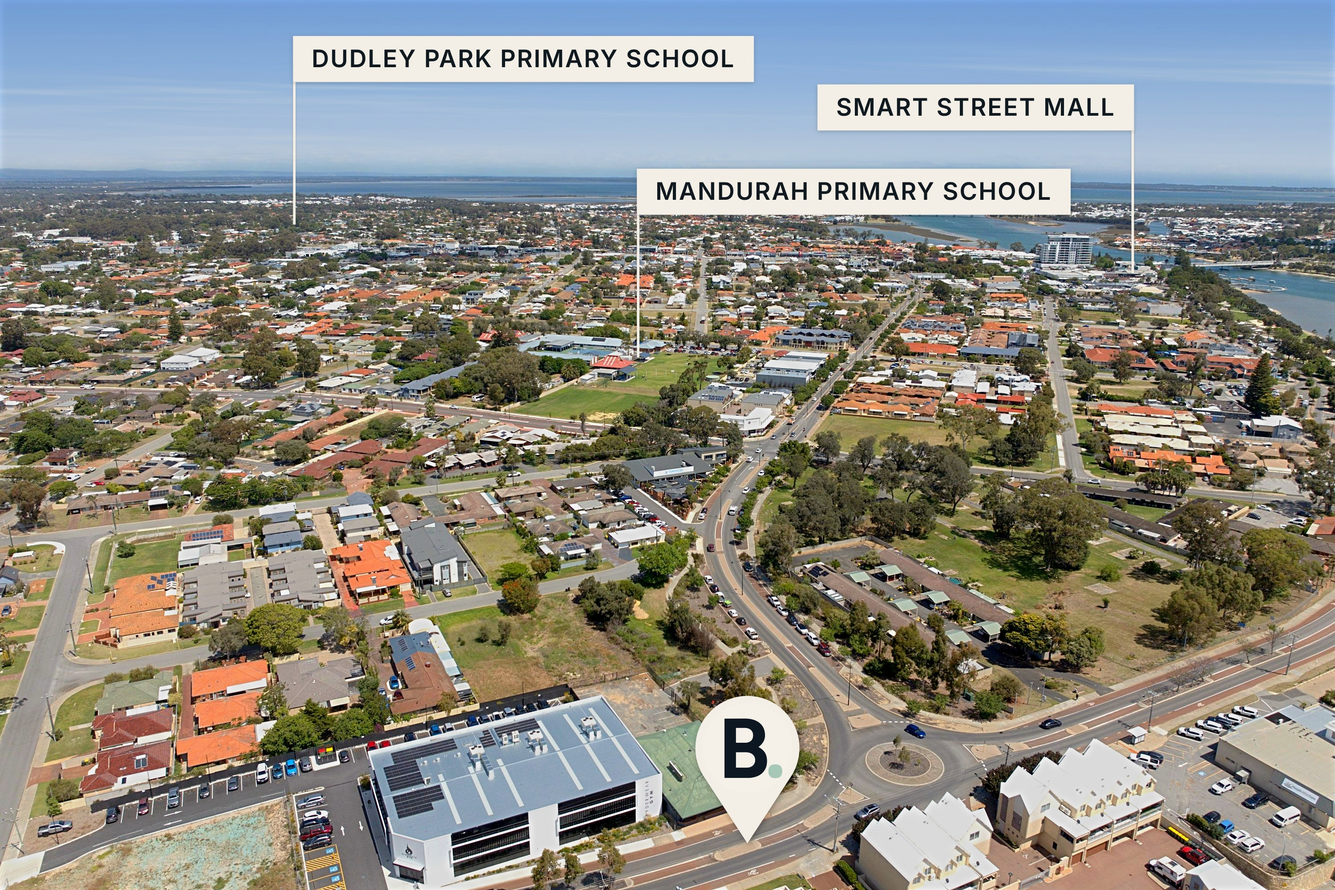
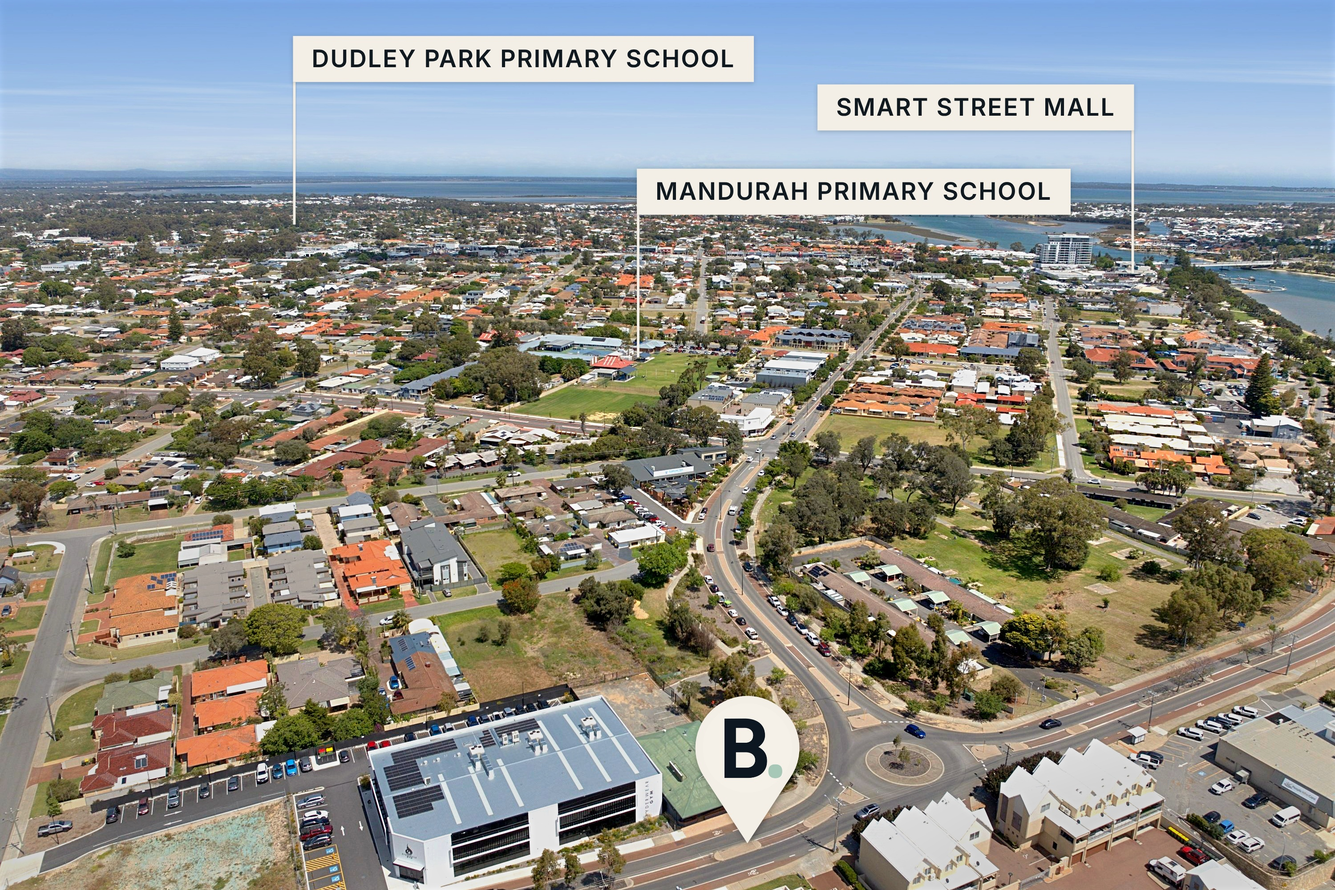
Editor: auto land/sea/sky masks, Even out land on by default; Mandurah re-exported
Claude-Session: https://claude.ai/code/session_01A5qGg2LnJXxgSHoMQFvEEG

diff --git a/pins/index.html b/pins/index.html
@@ -1199,7 +1199,7 @@ function textMetrics(c, t, p){
   const bw = w+padX*2, bh = lines.length*lh + padY*2;
   return { size, weight, lines, lh, bw, bh, x:t.x-bw/2, y:t.y-bh/2, padX, padY };
 }
-const ADJ0 = { exp:0, con:0, hl:0, sh:0, warm:0, tint:0, sat:0, bright:0 };
+const ADJ0 = { exp:0, con:0, hl:0, sh:0, warm:0, tint:0, sat:0, bright:0, even:0, land:0, sea:0, sky:0 };
 function adjActive(a){ return a && Object.keys(ADJ0).some(k=>a[k]); }
 // Photo-only adjustments: applied to the picture underneath; pins, boundaries and text are drawn on top afterwards, untouched.
 function adjustedCanvas(src, a){
@@ -1211,6 +1211,33 @@ function adjustedCanvas(src, a){
     const wh=t*t*(3-2*t); t = t + sh*(1-wh)*t*(1-t)*1.6 + hl*wh*t*(1-t)*1.6; T[v]=cl(t*255); }
   const wr=1+a.warm/400, wb=1-a.warm/400, tg=1-a.tint/400;
   for (let i=0;i<d.length;i+=4){ let r=T[d[i]]*wr, g=T[d[i+1]]*tg, b=T[d[i+2]]*wb; const Y=.299*r+.587*g+.114*b; d[i]=cl(Y+(r-Y)*sat); d[i+1]=cl(Y+(g-Y)*sat); d[i+2]=cl(Y+(b-Y)*sat); }
+  if (a.even || a.land || a.sea || a.sky){   /* 5 Nov (Jason): automatic masks for LAND / SEA / SKY — land evened out (no bright or dark patches), each zone brightened or darkened on its own */
+    x.putImageData(id,0,0);
+    const mw=Math.max(24,Math.round(w/12)), mh=Math.max(16,Math.round(h/12)), N=mw*mh;
+    const z1=document.createElement("canvas"); z1.width=mw; z1.height=mh; const z1x=z1.getContext("2d"); z1x.drawImage(c,0,0,mw,mh);
+    const q=z1x.getImageData(0,0,mw,mh).data, LY=new Float32Array(N), rowY=new Float32Array(mh);
+    for (let i=0;i<N;i++){ const j=i*4; LY[i]=Math.log(1+(.299*q[j]+.587*q[j+1]+.114*q[j+2])); }
+    for (let yy=0;yy<mh;yy++){ let s=0; for (let xx=0;xx<mw;xx++) s+=LY[yy*mw+xx]; rowY[yy]=s/mw; }
+    let hz=Math.round(mh*.3), best=1e9; for (let yy=Math.round(mh*.04); yy<Math.round(mh*.6); yy++){ const a0=rowY[Math.max(0,yy-2)]+rowY[Math.max(0,yy-1)], b0=rowY[Math.min(mh-1,yy+1)]+rowY[Math.min(mh-1,yy+2)], dd=b0-a0; if (dd<best){ best=dd; hz=yy; } }
+    if (best > -0.15) hz = 0;   // no clear horizon (top-down / looking down): everything is land
+    const Ls=new Float32Array(N), Ws=new Float32Array(N), Ss=new Float32Array(N);
+    for (let yy=0;yy<mh;yy++) for (let xx=0;xx<mw;xx++){ const i=yy*mw+xx, j=i*4, r=q[j], g=q[j+1], b=q[j+2];
+      if (yy<hz){ Ss[i]=1; continue; } if (hz>0 && yy < hz + mh*.45 && ((b>r+22 && g>r+8 && b>90) || (b>r+8 && g>r+4 && b>150 && g>140))) Ws[i]=1; else Ls[i]=1; }
+    const blur=(A,R)=>{ const B=new Float32Array(N), C=new Float32Array(N); for (let pass=0;pass<3;pass++){ const S=pass?C:A;
+        for (let yy=0;yy<mh;yy++){ let acc=0,cnt=0; const row=yy*mw; for (let xx=-R;xx<mw;xx++){ if (xx+R<mw){ acc+=S[row+xx+R]; cnt++; } if (xx-R-1>=0){ acc-=S[row+xx-R-1]; cnt--; } if (xx>=0) B[row+xx]=acc/cnt; } }
+        for (let xx=0;xx<mw;xx++){ let acc=0,cnt=0; for (let yy=-R;yy<mh;yy++){ if (yy+R<mh){ acc+=B[(yy+R)*mw+xx]; cnt++; } if (yy-R-1>=0){ acc-=B[(yy-R-1)*mw+xx]; cnt--; } if (yy>=0) C[yy*mw+xx]=acc/cnt; } } } return C; };
+    const Lf=blur(Ls,1), Wf=blur(Ws,1), Sf=blur(Ss,1);
+    const R=Math.max(3,Math.round(mw/16)), num=new Float32Array(N); for (let i=0;i<N;i++) num[i]=LY[i]*Ls[i];
+    const bn=blur(num,R), bd=blur(Ls,R); let tg=0, tn=0; for (let i=0;i<N;i++) if (Ls[i]){ tg+=LY[i]; tn++; } tg = tn ? tg/tn : 0;
+    const ke=(a.even||0)/100, G=new Float32Array(N);
+    for (let i=0;i<N;i++){ const base = bd[i]>.02 ? bn[i]/bd[i] : tg; let ev = ke*0.85*(tg-base); ev = ev<-.6?-.6:ev>.6?.6:ev;
+      G[i] = Lf[i]*(ev + (a.land||0)/100*0.7) + Wf[i]*((a.sea||0)/100*0.7) + Sf[i]*((a.sky||0)/100*0.7); }
+    const sx=(mw-1)/Math.max(1,w-1), sy=(mh-1)/Math.max(1,h-1);
+    for (let yy=0;yy<h;yy++){ const fy=yy*sy, y0=fy|0, y1=Math.min(mh-1,y0+1), ty=fy-y0;
+      for (let xx=0;xx<w;xx++){ const fx=xx*sx, x0=fx|0, x1=Math.min(mw-1,x0+1), tx=fx-x0;
+        const gv=(G[y0*mw+x0]*(1-tx)+G[y0*mw+x1]*tx)*(1-ty)+(G[y1*mw+x0]*(1-tx)+G[y1*mw+x1]*tx)*ty; if (gv>-0.003 && gv<0.003) continue;
+        const k=Math.exp(gv), i=(yy*w+xx)*4; d[i]=cl(d[i]*k); d[i+1]=cl(d[i+1]*k); d[i+2]=cl(d[i+2]*k); } }
+  }
   if (a.bright){   /* 4–5 Nov (Jason): "mask the really bright parts" — feathered mask of every bright area (sky, ocean, glare), pulled down with a bit more colour so clouds read */
     const k=a.bright/100, mw=Math.max(8,Math.round(w/8)), mh=Math.max(8,Math.round(h/8));
     const m1=document.createElement("canvas"); m1.width=mw; m1.height=mh; const m1x=m1.getContext("2d"); m1x.drawImage(src,0,0,mw,mh);
@@ -1401,7 +1428,7 @@ function autoBright(src){   /* 5 Nov (Jason): "auto make the highlights go down 
   const brL = p97>.80 ? Math.min(45, Math.round((p97-.80)*300)) : 0;   /* bright roofs on the land also raise Bright parts */
   return { bright:Math.max(br, brL), hl };
 }
-function autoAdj(p, src){ if (p.brightSet || p._autoDone===src || (p.adj && p.adj.bright) || p.editorPhoto || p.extraEdited) return; p._autoDone=src; const ab = autoBright(src); p.adj = Object.assign({}, ADJ0, p.adj||{}, { bright:ab.bright }, (p.adj && p.adj.hl) ? {} : { hl:ab.hl }); p._adj = null; }
+function autoAdj(p, src){ if (p.brightSet || p._autoDone===src || (p.adj && p.adj.bright) || p.editorPhoto || p.extraEdited) return; p._autoDone=src; const ab = autoBright(src); p.adj = Object.assign({}, ADJ0, p.adj||{}, { bright:Math.round(ab.bright*.6), even:60 }, (p.adj && p.adj.hl) ? {} : { hl:ab.hl });   /* 5 Nov: land evened by default */ p._adj = null; }
 function ensureFinish(p){ if (p && (p.editorPhoto || p.extraEdited)){ p.finishOn = false; p.fin = null; return; }   /* 31 Oct: editor photos are never re-finished */
   if (!p.finishOn && !p.sample && p.base) autoAdj(p, p.base);   /* auto highlights also on unfinished photos */
   if (!p.finishOn || p.sample) return;
@@ -2001,6 +2028,11 @@ function refreshPhotoTab(){
     let tm=null; const redraw=()=>{ clearTimeout(tm); tm=setTimeout(()=>{ p._blur=null; refreshStrip(); requestDraw(); }, 60); };
     A.forEach(([k,lab])=>sa.appendChild(slider("adj_"+k, lab, -100, 100, 1, p.adj[k]||0, v=>(v>0?"+":"")+v, v=>{ p.adj[k]=v; redraw(); }, commit)));
     sa.appendChild(slider("adj_bright", "Bright parts (pull down)", 0, 100, 1, p.adj.bright||0, v=>v?String(v):"off", v=>{ p.adj.bright=v; p.brightSet=true; redraw(); }, commit));   /* 5 Nov: pulls down every bright area — sky, ocean, glare */
+    sa.appendChild(el(`<p class="note" style="margin-top:8px"><b>Auto masks</b> — land, sea and sky are found automatically.</p>`));
+    sa.appendChild(slider("adj_even", "Even out land", 0, 100, 1, p.adj.even||0, v=>v?String(v):"off", v=>{ p.adj.even=v; p.brightSet=true; redraw(); }, commit));
+    sa.appendChild(slider("adj_land", "Land brightness", -50, 50, 1, p.adj.land||0, v=>v>0?"+"+v:String(v), v=>{ p.adj.land=v; p.brightSet=true; redraw(); }, commit));
+    sa.appendChild(slider("adj_sea", "Sea brightness", -50, 50, 1, p.adj.sea||0, v=>v>0?"+"+v:String(v), v=>{ p.adj.sea=v; p.brightSet=true; redraw(); }, commit));
+    sa.appendChild(slider("adj_sky", "Sky brightness", -50, 50, 1, p.adj.sky||0, v=>v>0?"+"+v:String(v), v=>{ p.adj.sky=v; p.brightSet=true; redraw(); }, commit));
     { const mb = el(`<div class="row"><button class="btn" aria-pressed="false">Show mask</button><span class="note" style="margin:0">Red = what the mask touches</span></div>`); const bt = mb.children[0];
       bt.onclick=()=>{ window.__showMask=!window.__showMask; bt.setAttribute("aria-pressed", String(!!window.__showMask)); bt.textContent = window.__showMask ? "Hide mask" : "Show mask"; p._blur=null; requestDraw(); };
       sa.appendChild(mb); }
